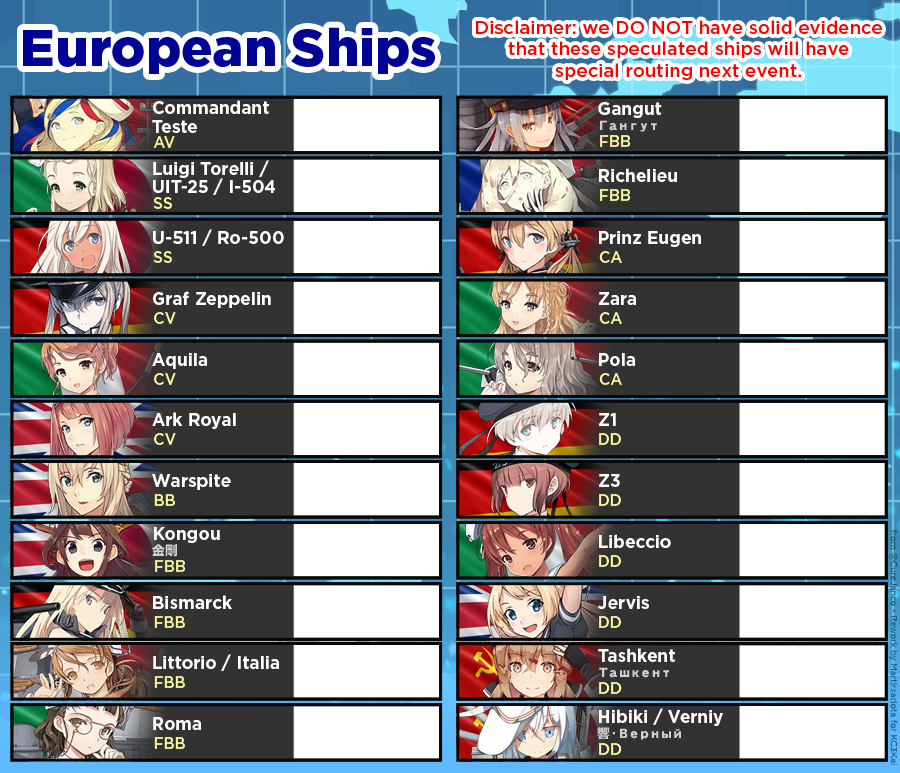
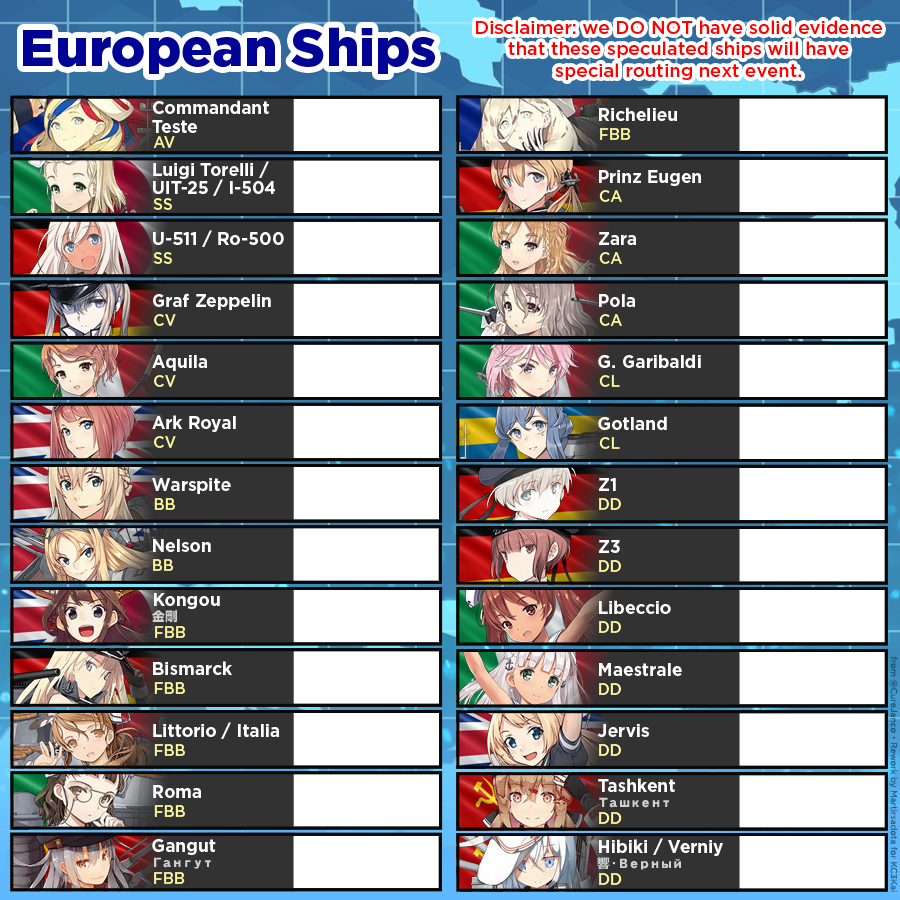
EU map update

diff --git a/drawitemdrops.html b/drawitemdrops.html
@@ -30,15 +30,17 @@
             let mapCoords = {
                 "World 44-1": {"image": "https://i.imgur.com/V6DWKfv.png", "A":{"x":107,"y":276},"B":{"x":167,"y":380},"C":{"x":199,"y":171},"D":{"x":259,"y":390},"E":{"x":277,"y":195},"F":{"x":358,"y":123},"G":{"x":371,"y":196},"H":{"x":396,"y":379},"I":{"x":492,"y":480},"J":{"x":611,"y":387},"K":{"x":631,"y":501},"L":{"x":751,"y":402},"M":{"x":777,"y":520},"N":{"x":813,"y":140},"O":{"x":879,"y":472},"P":{"x":901,"y":190},"Q":{"x":936,"y":344},"R":{"x":977,"y":526},"S":{"x":981,"y":135},"T":{"x":1023,"y":317},"U":{"x":1028,"y":224},"V":{"x":933,"y":400},"W":{"x":1032,"y":443}},
                 "World 44-2": {"image": "https://i.imgur.com/rsvnYgO.png", "A":{"x":852,"y":340},"B":{"x":805,"y":471},"C":{"x":718,"y":388},"D":{"x":671,"y":480},"E":{"x":640,"y":257},"F":{"x":599,"y":431},"G":{"x":578,"y":542},"H":{"x":503,"y":268},"I":{"x":407,"y":497},"J":{"x":332,"y":468},"K":{"x":228,"y":351},"L":{"x":195,"y":448},"M":{"x":153,"y":373},"N":{"x":956,"y":311},"O1":{"x":880,"y":231},"O2":{"x":855,"y":184},"O3":{"x":819,"y":135},"P1":{"x":821,"y":238},"P2":{"x":795,"y":188},"P3":{"x":711,"y":126},"Q1":{"x":758,"y":245},"Q2":{"x":736,"y":191},"Q3":{"x":551,"y":117},"R":{"x":599,"y":198},"S":{"x":451,"y":207},"T":{"x":372,"y":280},"U":{"x":276,"y":280},"V":{"x":264,"y":289}},
-                "World 44-3": {"image": "https://i.imgur.com/W16pM0p.png", "A":{"x":229,"y":295},"B":{"x":230,"y":429},"C":{"x":345,"y":493},"D":{"x":348,"y":233},"E":{"x":468,"y":168},"F":{"x":497,"y":429},"G":{"x":576,"y":168},"H":{"x":598,"y":333},"I":{"x":645,"y":434},"J":{"x":687,"y":290},"K":{"x":688,"y":518},"L":{"x":833,"y":448},"M":{"x":968,"y":511},"N":{"x":1007,"y":385},"O":{"x":785,"y":195},"P":{"x":812,"y":308},"Q":{"x":868,"y":130},"R":{"x":915,"y":261},"S":{"x":492,"y":323}},
+                "World 44-3": {"image": "https://i.imgur.com/W16pM0p.png", "A":{"x":229,"y":295},"B":{"x":230,"y":429},"C":{"x":345,"y":493},"D":{"x":348,"y":233},"E":{"x":468,"y":168},"F":{"x":497,"y":429},"G":{"x":576,"y":168},"H":{"x":598,"y":333},"I":{"x":645,"y":434},"J":{"x":687,"y":290},"K":{"x":688,"y":518},"L":{"x":833,"y":448},"M":{"x":968,"y":511},"N":{"x":1007,"y":385},"O":{"x":785,"y":195},"P":{"x":812,"y":308},"Q":{"x":868,"y":130},"R":{"x":915,"y":500},"S":{"x":492,"y":323}},
+                "World 44-4": {"image": "https://i.imgur.com/GUNf60W.png", "A":{"x":257,"y":215},"B":{"x":275,"y":357},"C":{"x":374,"y":138},"D":{"x":417,"y":248},"E":{"x":453,"y":481},"F":{"x":455,"y":418},"G":{"x":516,"y":268},"H":{"x":563,"y":451},"I":{"x":566,"y":165},"J":{"x":588,"y":283},"K":{"x":676,"y":451},"L":{"x":700,"y":184},"M":{"x":724,"y":508},"N":{"x":765,"y":451},"O":{"x":800,"y":325},"P":{"x":805,"y":537},"Q":{"x":889,"y":153},"R":{"x":896,"y":376},"S":{"x":905,"y":496},"T":{"x":983,"y":139},"U":{"x":1029,"y":443},"V":{"x":886,"y":287},"W":{"x":570,"y":394},"X":{"x":638,"y":359},"Y":{"x":751,"y":379}},
+                "World 44-5": {"image": "https://i.imgur.com/YEQ7WxR.png", "A":{"x":143,"y":254},"B":{"x":174,"y":434},"C":{"x":306,"y":199},"D":{"x":310,"y":489},"E":{"x":411,"y":529},"F":{"x":467,"y":252},"G":{"x":471,"y":142},"H":{"x":503,"y":438},"I":{"x":599,"y":295},"J":{"x":619,"y":407},"K":{"x":667,"y":317},"L":{"x":681,"y":392},"M":{"x":710,"y":237},"N":{"x":753,"y":465},"O":{"x":756,"y":153},"P":{"x":807,"y":522},"Q":{"x":799,"y":360},"R":{"x":832,"y":286},"S":{"x":842,"y":447},"T":{"x":901,"y":377},"U":{"x":926,"y":290},"V":{"x":940,"y":488},"W":{"x":942,"y":168},"X":{"x":983,"y":281},"Y":{"x":996,"y":193},"Z":{"x":967,"y":415},"Z1":{"x":1023,"y":522},"Z2":{"x":1049,"y":270},"J2":{"x":607,"y":195},"J3":{"x":645,"y":486}}
             }
             let SCALE = 8/8;
-            let PER_ROW = 2;
+            let PER_ROW = 3;
             let dropFile = {};
             function update() {
                 dropFile = JSON.parse(document.getElementById("start").value);
 
-                canvas.width = 1200*SCALE*2;
+                canvas.width = 1200*SCALE*PER_ROW;
                 canvas.height = 700*SCALE*2.15;
                 let context = canvas.getContext("2d");
                 context.fillRect(0,0,canvas.width,canvas.height);
@@ -70,7 +72,7 @@
                 context.fillText("Example: a ship drops on 甲A+ and 乙S then 乙A will be shown", 1200*SCALE*(PER_ROW-1) + 13, 700*SCALE*1.4 + 320)
 
                 //let files = ["1-1", "1-2", "1-3", "1-4", "1-5", "1-6", "2-1", "2-2", "2-3", "2-4", "2-5", "3-1", "3-2", "3-3", "3-4", "3-5", "7-1", "4-1", "4-2", "4-3", "4-4", "4-5", "5-1", "5-2", "5-3", "5-4", "5-5", "6-1", "6-2", "6-3", "6-4", "6-5"]
-                let files = ["44-1","44-2","44-3"]
+                let files = ["44-1","44-2","44-3","44-4","44-5"]
                 for(let f of files)
                     //drawMap("World " + f, (parseInt(f[2])-1) * 1200*SCALE, 700*SCALE*(parseInt(f[0])-1))
                     drawMap("World " + f, Math.floor(parseInt(f[3]-1)%PER_ROW)* 1200*SCALE, 700*SCALE*(Math.floor(parseInt(f[3]-1)/PER_ROW)*1.1+.1))
@@ -124,8 +126,8 @@
                             drewItem++;
                         }*/
                         let shipsTracked = [
-                            95, // best DD
-                            585, 584, 590, // current event
+                            // 95, // best DD
+                            596, 585, 584, 590, // current event
                             528, 562, 581, 583, // last event
                             // DD
                                 421, 422, 423, 532, // Akizuki class
@@ -190,6 +192,12 @@
                             let rank = ['', '丁', '丙','乙', '甲'][shipFileSection[node][i+""].minDiff] + ['B', 'A', 'S'][shipFileSection[node][i+""].minRank];
                             if(shipFileSection[node][i+""].drops["4"] && shipFileSection[node][i+""].drops["4"]["S"] && shipFileSection[node].total["4"]["S"] > 100)
                                 rank += " " + (shipFileSection[node][i+""].drops["4"]["S"] / shipFileSection[node].total["4"]["S"] * 100).toLocaleString(undefined, {maximumFractionDigits: 1, minimumFractionDigits: 1})+"%"
+                            else if(shipFileSection[node].total["4"]["S"] > 500)
+                                rank += " /"
+                            else if(shipFileSection[node].total["4"]["S"] > 250)
+                                rank += " 0%? "
+                            else
+                                rank += " ?%"
                             let yOffset = -40 - shipDrops++ * 37;
 
                             setTimeout(() => drawItem(true, i, x -20 /*+ 20*/, y + yOffset, rank), drewItem * 100 + 500);
@@ -216,9 +224,9 @@
                         //if(shipFileSection[node].total["4"]["S"] > 100) {
                         context.font = "15px Georgia";
                         context.lineWidth = 7;
-                        context.strokeText(shipFileSection[node].total["4"]["S"] + " 甲S", x, y + 50);
+                        context.strokeText(shipFileSection[node].total["4"]["S"]||0 + " 甲S", x, y + 50);
                         context.lineWidth = 1;
-                        context.fillText(shipFileSection[node].total["4"]["S"] + " 甲S", x, y + 50);
+                        context.fillText(shipFileSection[node].total["4"]["S"]||0 + " 甲S", x, y + 50);
                         //}
                     }
 
@@ -249,7 +257,9 @@
                 img.onload = function() {
                     context.drawImage(img, x, y, size, size);
                     if(rank.indexOf("A") != -1)
-                        context.fillStyle = "rgba(244, 16, 0, 1)";
+                        context.fillStyle = "rgba(244, 130, 0, 1)";
+                    else if(rank.indexOf("B") != -1)
+                        context.fillStyle = "rgba(244, 244, 0, 1)";
                     else if(rank.indexOf("S") != -1)
                         context.fillStyle = "rgba(244, 244, 0, 1)";
                     context.font = "20px Georgia";
@@ -260,7 +270,7 @@
                     context.fillText(rank, x+size/2, y + size-2);
                 }
                 if(ship) {
-                    img.src = "https://raw.githubusercontent.com/KC3Kai/KC3Kai/master/src/assets/img/ships/" + item + ".png"
+                    img.src = "https://raw.githubusercontent.com/KC3Kai/KC3Kai/develop/src/assets/img/ships/" + item + ".png"
                 } else
                     img.src = ["https://vignette.wikia.nocookie.net/kancolle/images/c/c8/Rice_Card.png/revision/latest/scale-to-width-down/" + size,
                             "https://vignette.wikia.nocookie.net/kancolle/images/b/b4/Umeboshi_Card.png/revision/latest/scale-to-width-down/" + size,

diff --git a/ShowcaseEventList.js b/ShowcaseEventList.js
@@ -319,29 +319,33 @@
             lvlFontSize: 36,
             maxBoxWidth: 145,
             shipPositions: [
-                {"x": 366, "y": 139+60.7* 0, "id": 491}, // Commandant Teste
-                {"x": 366, "y": 139+60.7* 1, "id": 535}, // Luigi Torelli
-                {"x": 366, "y": 139+60.7* 2, "id": 431}, // U-511
-                {"x": 366, "y": 139+60.7* 3, "id": 432}, // Graf Zeppelin
-                {"x": 366, "y": 139+60.7* 4, "id": 444}, // Aquila
-                {"x": 366, "y": 139+60.7* 5, "id": 515}, // Ark Royal
-                {"x": 366, "y": 139+60.7* 6, "id": 439}, // Warspite
-                {"x": 366, "y": 139+60.7* 7, "id":  78}, // Kongou
-                {"x": 366, "y": 139+60.7* 8, "id": 171}, // Bismarck
-                {"x": 366, "y": 139+60.7* 9, "id": 441}, // Littorio
-                {"x": 366, "y": 139+60.7*10, "id": 442}, // Roma
+                {"x": 366, "y": 137+61.5* 0, "id": 491}, // Commandant Teste
+                {"x": 366, "y": 137+61.5* 1, "id": 535}, // Luigi Torelli
+                {"x": 366, "y": 137+61.5* 2, "id": 431}, // U-511
+                {"x": 366, "y": 137+61.5* 3, "id": 432}, // Graf Zeppelin
+                {"x": 366, "y": 137+61.5* 4, "id": 444}, // Aquila
+                {"x": 366, "y": 137+61.5* 5, "id": 515}, // Ark Royal
+                {"x": 366, "y": 137+61.5* 6, "id": 439}, // Warspite
+                {"x": 366, "y": 137+61.5* 7, "id": 571}, // Nelson
+                {"x": 366, "y": 137+61.5* 8, "id":  78}, // Kongou
+                {"x": 366, "y": 137+61.5* 9, "id": 171}, // Bismarck
+                {"x": 366, "y": 137+61.5*10, "id": 441}, // Littorio
+                {"x": 366, "y": 137+61.5*11, "id": 442}, // Roma
+                {"x": 366, "y": 137+61.5*12, "id": 511}, // Gangut
 
-                {"x": 812, "y": 139+60.7* 0, "id": 511}, // Gangut
-                {"x": 812, "y": 139+60.7* 1, "id": 492}, // Richelieu
-                {"x": 812, "y": 139+60.7* 2, "id": 176}, // Prinz Eugen
-                {"x": 812, "y": 139+60.7* 3, "id": 448}, // Zara
-                {"x": 812, "y": 139+60.7* 4, "id": 449}, // Pola
-                {"x": 812, "y": 139+60.7* 5, "id": 174}, // Z1
-                {"x": 812, "y": 139+60.7* 6, "id": 175}, // Z3
-                {"x": 812, "y": 139+60.7* 7, "id": 443}, // Libeccio
-                {"x": 812, "y": 139+60.7* 8, "id": 519}, // Jervis
-                {"x": 812, "y": 139+60.7* 9, "id": 516}, // Tashkent
-                {"x": 812, "y": 139+60.7*10, "id": 35}   // Hibiki
+                {"x": 812, "y": 137+61.5* 0, "id": 492}, // Richelieu
+                {"x": 812, "y": 137+61.5* 1, "id": 176}, // Prinz Eugen
+                {"x": 812, "y": 137+61.5* 2, "id": 448}, // Zara
+                {"x": 812, "y": 137+61.5* 3, "id": 449}, // Pola
+                {"x": 812, "y": 137+61.5* 4, "id": 590}, // GG
+                {"x": 812, "y": 137+61.5* 5, "id": 574}, // Got
+                {"x": 812, "y": 137+61.5* 6, "id": 174}, // Z1
+                {"x": 812, "y": 137+61.5* 7, "id": 175}, // Z3
+                {"x": 812, "y": 137+61.5* 8, "id": 443}, // Libeccio
+                {"x": 812, "y": 137+61.5* 9, "id": 575}, // Mae
+                {"x": 812, "y": 137+61.5*10, "id": 519}, // Jervis
+                {"x": 812, "y": 137+61.5*11, "id": 516}, // Tashkent
+                {"x": 812, "y": 137+61.5*12, "id": 35}   // Hibiki
             ],
         },
         // Operation ten go/kita

diff --git a/lbasrangemapmaker.html b/lbasrangemapmaker.html
@@ -8,7 +8,7 @@
         <meta name="twitter:title" content="Flat is Justice - lbas range map maker">
         <meta name="twitter:description" content="Make LBAS range maps">
         <meta name="twitter:image" content="http://flatisjustice.moe/pics/lbasrangemapmaker.png">
-        <script src="https://cdnjs.cloudflare.com/ajax/libs/pixi.js/4.7.1/pixi.min.js"></script>
+        <script src="https://cdnjs.cloudflare.com/ajax/libs/pixi.js/4.8.1/pixi.min.js"></script>
         <script src="https://unpkg.com/blob-util/dist/blob-util.min.js"></script>
 
         <style type="text/css">
@@ -117,7 +117,7 @@
 
                 loader = new PIXI.loaders.Loader;
 
-                loader.add(getPath('image.json')).add(`http://${SERVER}/kcs2/img/map/map_common.json`)/*.add(`http://${SERVER}/kcs2/img/map/map_event_anime.json`)*/.load(function() {
+                loader.add(getPath('image.json'))/*.add("https://i.imgur.com/8UgX5Pz.png")*/.add(`http://${SERVER}/kcs2/img/map/map_common.json`)/*.add(`http://${SERVER}/kcs2/img/map/map_event_anime.json`)*/.load(function() {
                     getJSON(getPath('info.json'), function (info) {
                         locData = info;
                         let callback = function() {
@@ -545,6 +545,27 @@
                         app.stage.addChild(text);
                         text.position.set(middlex, middley);
                     }
+
+                    /*if(nodeInfo.no == 21 || nodeInfo.no == 23) {
+                        let aaa = new PIXI.Graphics();
+                        aaa.position.set(nodeInfo.x, nodeInfo.y);
+                        aaa.id = nodeInfo
+
+                        frame = PIXI.Texture.fromFrame("https://i.imgur.com/8UgX5Pz.png");
+                        let _wave = new PIXI.Sprite(frame);
+                        _wave.anchor.set(.5),
+                        _wave.buttonMode = false;
+                        _wave.interactive = false;
+                        _wave.scale.set(1.35),
+                        aaa.addChild(_wave),
+                        aaa.beginFill(0x00ff00, 0.25);
+                        aaa.buttonMode = !0
+                        aaa.interactive = !0
+                        aaa.drawCircle(0, 0, 38)
+                        aaa.on("mouseup", () => console.log(aaa.id.no));
+                        //.touch ? "touchend" : "mouseup
+                        app.stage.addChild(aaa);
+                    }*/
 
                     let fromId = "Node" + edges[closestFrom.x + ";" + closestFrom.y].map((e) => e.no).join("_");
                     let toId = "Node" + edges[nodeInfo.x + ";" + nodeInfo.y].map((e) => e.no).join("_");

diff --git a/eventlist.html b/eventlist.html
@@ -41,7 +41,7 @@
                     <option value="2018winter2-nicohatealpha">End of Year 2018 - nicohatealpha</option>
                     <option value="2018winter2-nishi">End of Year 2018 - Nishisonic</option>
                     <option value="nicohatealpha">&#19968;&#20843;&#24335;&#12288;&#26217;&#22799;&#12288;&#38480;&#23450;&#28023;&#22495;&#32244;&#24230;&#30906;&#35469;&#34920;</option>
-                    <option value="europeanShips">European ships</option>
+                    <option selected value="europeanShips">European ships</option>
                     <option value="operationKitaTenGo">Operation Kita + Operation Ten-Go</option>
                     <option value="operationKitaTenGo-JP">&#21271;&#21495;&#20316;&#25126; + &#22346;&#12494;&#23724;&#27798;&#28023;&#25126;</option>
                     <option value="potatoShips">Potato</option>
